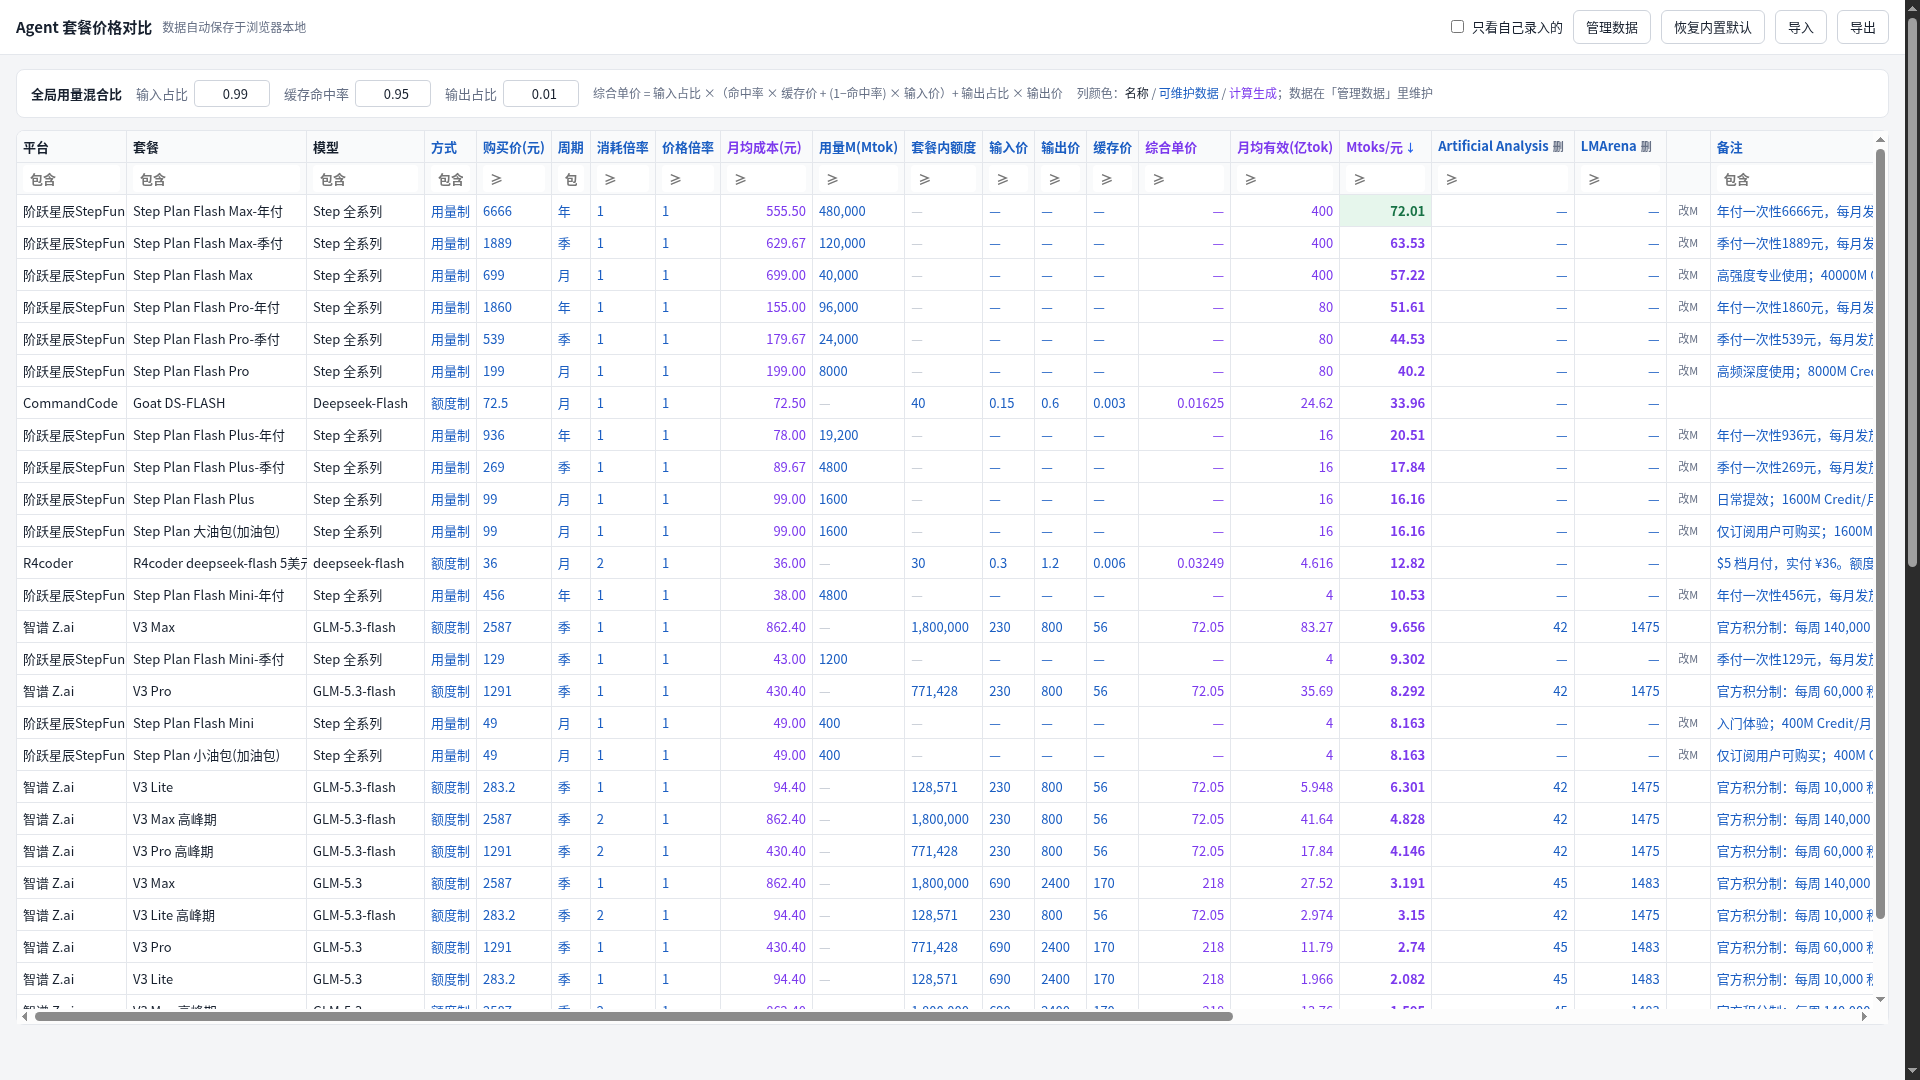
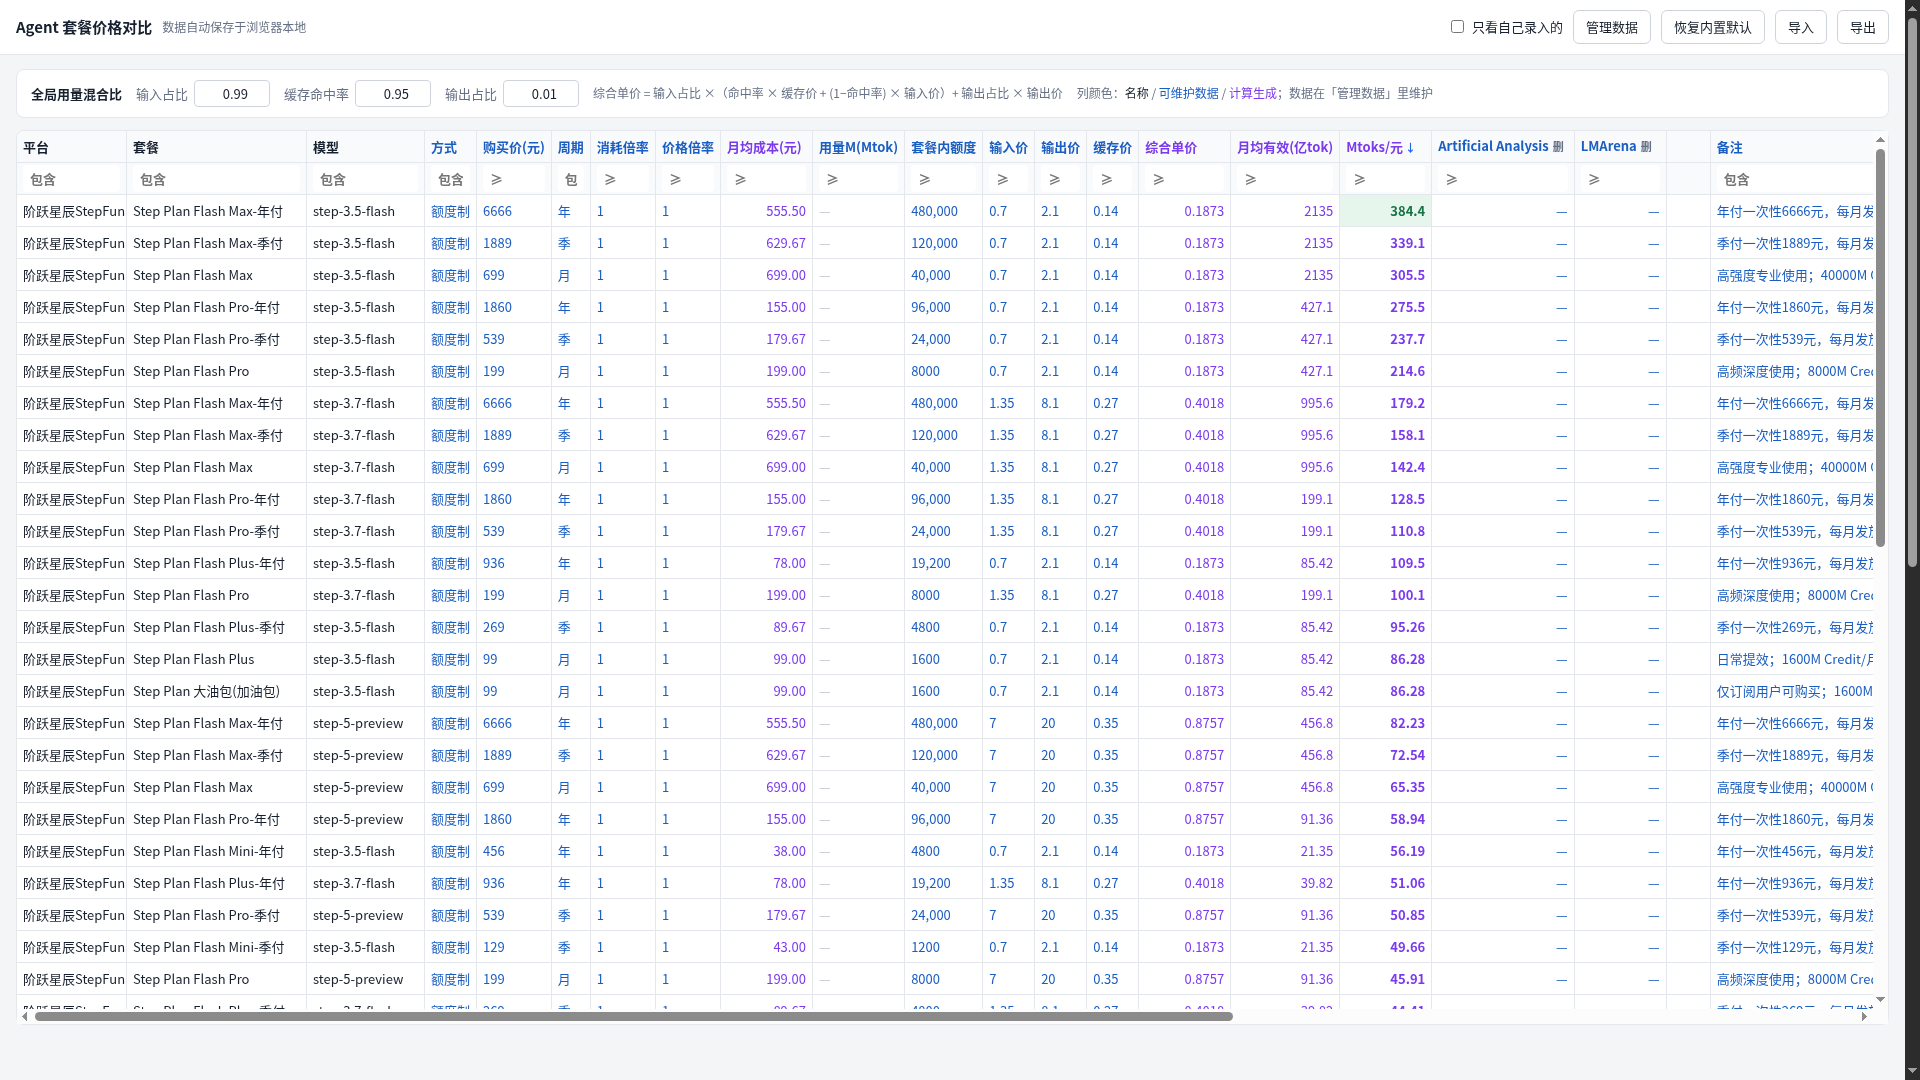
StepFun 改为逐模型建模（v8）
- 拿到三个文本模型 API 原价后，平台拆为 step-5-preview / step-3.7-flash / step-3.5-flash
- 套餐由用量制改额度制：额度 = 周期内 Credit 池（1M Credit = 1 元），季付 ×3、年付 ×12
- 综合单价由全局混合比公式现算，与官方手算口径逐项一致（Mini×step-5 = 456.8M token/月）
- 更新 README 内置数据说明与预览截图

diff --git a/data.js b/data.js
@@ -9,10 +9,12 @@
 // Goat 套餐定名 Goat DS-FLASH（月付 72.5 元、额度 40 元）。
 // v6：新增 R4coder 平台——deepseek-flash 5 美元套餐（¥36/月，额度 $30 按美元标价扣，消耗倍率 2，
 // 模型价 0.3/1.2/0.006 $/Mtok）。
-// v7：新增 阶跃星辰StepFun 平台——Credit 月池全模型共享、无逐模型 API 价，故按用量制建模：
-// 单模型「Step 全系列」承载共享池，usageM 填该套餐单周期总 Credit（Mtok）；加油包 30 天按 1 月折算。
+// v7：新增 阶跃星辰StepFun 平台（Credit 月池全模型共享）。
+// v8：StepFun 改为逐模型建模——拿到三个模型的 API 原价（输入命中/未命中/输出，元/Mtok）后，
+// 平台拆为 step-5-preview / step-3.7-flash / step-3.5-flash，套餐改额度制，额度 = 周期内 Credit 池
+// （1M Credit = 1元，季/年付为该周期累计发放量），综合单价按全局混合比公式现算，与官方口径一致。
 window.BUILTIN_DATA = {
-  version: 7,
+  version: 8,
   global: {
     inputRatio: 0.99,
     cacheHitRate: 0.95,
@@ -83,23 +85,25 @@ window.BUILTIN_DATA = {
       id: "p-stepfun",
       name: "阶跃星辰StepFun",
       models: [
-        { id: "m-step-all", name: "Step 全系列", priceIn: null, priceOut: null, priceCache: null, note: "Credit 月池为全模型共享；覆盖 step-5-preview、step-3.7-flash、step-3.5-flash-2603、step-router-v1、语音系列。" }
+        { id: "m-step-5", name: "step-5-preview", priceIn: 7.00, priceOut: 20.00, priceCache: 0.35, note: "" },
+        { id: "m-step-37f", name: "step-3.7-flash", priceIn: 1.35, priceOut: 8.10, priceCache: 0.27, note: "" },
+        { id: "m-step-35f", name: "step-3.5-flash", priceIn: 0.70, priceOut: 2.10, priceCache: 0.14, note: "" }
       ],
       plans: [
-        { id: "pl-step-mini", name: "Step Plan Flash Mini", price: 49, period: "month", mode: "usage", usageM: { "m-step-all": 400 }, consumeRate: 1, priceRate: 1, note: "入门体验；400M Credit/月，月末清零；Studio额外赠送40%创作额度；无优先速率；支持全部旗舰模型、MCP StepSearch" },
-        { id: "pl-step-plus", name: "Step Plan Flash Plus", price: 99, period: "month", mode: "usage", usageM: { "m-step-all": 1600 }, consumeRate: 1, priceRate: 1, note: "日常提效；1600M Credit/月，月末清零；Studio额外赠送40%创作额度；含优先API速率、优先技术支持；支持全部旗舰模型、MCP StepSearch" },
-        { id: "pl-step-pro", name: "Step Plan Flash Pro", price: 199, period: "month", mode: "usage", usageM: { "m-step-all": 8000 }, consumeRate: 1, priceRate: 1, note: "高频深度使用；8000M Credit/月，月末清零；Studio额外赠送40%创作额度；含优先API速率、优先技术支持；支持全部旗舰模型、MCP StepSearch" },
-        { id: "pl-step-max", name: "Step Plan Flash Max", price: 699, period: "month", mode: "usage", usageM: { "m-step-all": 40000 }, consumeRate: 1, priceRate: 1, note: "高强度专业使用；40000M Credit/月，月末清零；Studio额外赠送40%创作额度；含优先API速率、优先技术支持；支持全部旗舰模型、MCP StepSearch" },
-        { id: "pl-step-mini-q", name: "Step Plan Flash Mini-季付", price: 129, period: "quarter", mode: "usage", usageM: { "m-step-all": 1200 }, consumeRate: 1, priceRate: 1, note: "季付一次性129元，每月发放400M Credit；月末清零；Studio额外赠送40%创作额度；含优先速率与技术支持" },
-        { id: "pl-step-plus-q", name: "Step Plan Flash Plus-季付", price: 269, period: "quarter", mode: "usage", usageM: { "m-step-all": 4800 }, consumeRate: 1, priceRate: 1, note: "季付一次性269元，每月发放1600M Credit；月末清零；Studio额外赠送40%创作额度；含优先速率与技术支持" },
-        { id: "pl-step-pro-q", name: "Step Plan Flash Pro-季付", price: 539, period: "quarter", mode: "usage", usageM: { "m-step-all": 24000 }, consumeRate: 1, priceRate: 1, note: "季付一次性539元，每月发放8000M Credit；月末清零；Studio额外赠送40%创作额度；含优先速率与技术支持" },
-        { id: "pl-step-max-q", name: "Step Plan Flash Max-季付", price: 1889, period: "quarter", mode: "usage", usageM: { "m-step-all": 120000 }, consumeRate: 1, priceRate: 1, note: "季付一次性1889元，每月发放40000M Credit；月末清零；Studio额外赠送40%创作额度；含优先速率与技术支持" },
-        { id: "pl-step-mini-y", name: "Step Plan Flash Mini-年付", price: 456, period: "year", mode: "usage", usageM: { "m-step-all": 4800 }, consumeRate: 1, priceRate: 1, note: "年付一次性456元，每月发放400M Credit；月末清零；Studio额外赠送40%创作额度；含优先速率与技术支持" },
-        { id: "pl-step-plus-y", name: "Step Plan Flash Plus-年付", price: 936, period: "year", mode: "usage", usageM: { "m-step-all": 19200 }, consumeRate: 1, priceRate: 1, note: "年付一次性936元，每月发放1600M Credit；月末清零；Studio额外赠送40%创作额度；含优先速率与技术支持" },
-        { id: "pl-step-pro-y", name: "Step Plan Flash Pro-年付", price: 1860, period: "year", mode: "usage", usageM: { "m-step-all": 96000 }, consumeRate: 1, priceRate: 1, note: "年付一次性1860元，每月发放8000M Credit；月末清零；Studio额外赠送40%创作额度；含优先速率与技术支持" },
-        { id: "pl-step-max-y", name: "Step Plan Flash Max-年付", price: 6666, period: "year", mode: "usage", usageM: { "m-step-all": 480000 }, consumeRate: 1, priceRate: 1, note: "年付一次性6666元，每月发放40000M Credit；月末清零；Studio额外赠送40%创作额度；含优先速率与技术支持" },
-        { id: "pl-step-oil-s", name: "Step Plan 小油包(加油包)", price: 49, period: "month", mode: "usage", usageM: { "m-step-all": 400 }, consumeRate: 1, priceRate: 1, note: "仅订阅用户可购买；400M Credit；独立30天有效期，不跟随套餐月池周期（周期按30天≈1月折算）" },
-        { id: "pl-step-oil-l", name: "Step Plan 大油包(加油包)", price: 99, period: "month", mode: "usage", usageM: { "m-step-all": 1600 }, consumeRate: 1, priceRate: 1, note: "仅订阅用户可购买；1600M Credit；独立30天有效期，不跟随套餐月池周期（周期按30天≈1月折算）" }
+        { id: "pl-step-mini", name: "Step Plan Flash Mini", price: 49, period: "month", mode: "quota", quota: 400, consumeRate: 1, priceRate: 1, note: "入门体验；400M Credit/月，月末清零；Studio额外赠送40%创作额度；无优先速率；支持全部旗舰模型、MCP StepSearch" },
+        { id: "pl-step-plus", name: "Step Plan Flash Plus", price: 99, period: "month", mode: "quota", quota: 1600, consumeRate: 1, priceRate: 1, note: "日常提效；1600M Credit/月，月末清零；Studio额外赠送40%创作额度；含优先API速率、优先技术支持；支持全部旗舰模型、MCP StepSearch" },
+        { id: "pl-step-pro", name: "Step Plan Flash Pro", price: 199, period: "month", mode: "quota", quota: 8000, consumeRate: 1, priceRate: 1, note: "高频深度使用；8000M Credit/月，月末清零；Studio额外赠送40%创作额度；含优先API速率、优先技术支持；支持全部旗舰模型、MCP StepSearch" },
+        { id: "pl-step-max", name: "Step Plan Flash Max", price: 699, period: "month", mode: "quota", quota: 40000, consumeRate: 1, priceRate: 1, note: "高强度专业使用；40000M Credit/月，月末清零；Studio额外赠送40%创作额度；含优先API速率、优先技术支持；支持全部旗舰模型、MCP StepSearch" },
+        { id: "pl-step-mini-q", name: "Step Plan Flash Mini-季付", price: 129, period: "quarter", mode: "quota", quota: 1200, consumeRate: 1, priceRate: 1, note: "季付一次性129元，每月发放400M Credit；月末清零；Studio额外赠送40%创作额度；含优先速率与技术支持" },
+        { id: "pl-step-plus-q", name: "Step Plan Flash Plus-季付", price: 269, period: "quarter", mode: "quota", quota: 4800, consumeRate: 1, priceRate: 1, note: "季付一次性269元，每月发放1600M Credit；月末清零；Studio额外赠送40%创作额度；含优先速率与技术支持" },
+        { id: "pl-step-pro-q", name: "Step Plan Flash Pro-季付", price: 539, period: "quarter", mode: "quota", quota: 24000, consumeRate: 1, priceRate: 1, note: "季付一次性539元，每月发放8000M Credit；月末清零；Studio额外赠送40%创作额度；含优先速率与技术支持" },
+        { id: "pl-step-max-q", name: "Step Plan Flash Max-季付", price: 1889, period: "quarter", mode: "quota", quota: 120000, consumeRate: 1, priceRate: 1, note: "季付一次性1889元，每月发放40000M Credit；月末清零；Studio额外赠送40%创作额度；含优先速率与技术支持" },
+        { id: "pl-step-mini-y", name: "Step Plan Flash Mini-年付", price: 456, period: "year", mode: "quota", quota: 4800, consumeRate: 1, priceRate: 1, note: "年付一次性456元，每月发放400M Credit；月末清零；Studio额外赠送40%创作额度；含优先速率与技术支持" },
+        { id: "pl-step-plus-y", name: "Step Plan Flash Plus-年付", price: 936, period: "year", mode: "quota", quota: 19200, consumeRate: 1, priceRate: 1, note: "年付一次性936元，每月发放1600M Credit；月末清零；Studio额外赠送40%创作额度；含优先速率与技术支持" },
+        { id: "pl-step-pro-y", name: "Step Plan Flash Pro-年付", price: 1860, period: "year", mode: "quota", quota: 96000, consumeRate: 1, priceRate: 1, note: "年付一次性1860元，每月发放8000M Credit；月末清零；Studio额外赠送40%创作额度；含优先速率与技术支持" },
+        { id: "pl-step-max-y", name: "Step Plan Flash Max-年付", price: 6666, period: "year", mode: "quota", quota: 480000, consumeRate: 1, priceRate: 1, note: "年付一次性6666元，每月发放40000M Credit；月末清零；Studio额外赠送40%创作额度；含优先速率与技术支持" },
+        { id: "pl-step-oil-s", name: "Step Plan 小油包(加油包)", price: 49, period: "month", mode: "quota", quota: 400, consumeRate: 1, priceRate: 1, note: "仅订阅用户可购买；400M Credit；独立30天有效期，不跟随套餐月池周期（周期按30天≈1月折算）" },
+        { id: "pl-step-oil-l", name: "Step Plan 大油包(加油包)", price: 99, period: "month", mode: "quota", quota: 1600, consumeRate: 1, priceRate: 1, note: "仅订阅用户可购买；1600M Credit；独立30天有效期，不跟随套餐月池周期（周期按30天≈1月折算）" }
       ]
     }
   ],

diff --git a/README.md b/README.md
@@ -28,12 +28,12 @@
 
 ## 内置数据说明
 
-内置数据（data.js，v7）覆盖四个平台，数值为 2026-09 采集口径：
+内置数据（data.js，v8）覆盖四个平台，数值为 2026-09 采集口径：
 
 - **智谱 Z.ai**：模型为积分抵扣系数口径（积分/Mtok，GLM-5.3 输入 690 / 输出 2400 / 缓存 170；flash 230 / 800 / 56）。三档套餐各两套——高峰期（消耗倍率 2）与标准（消耗倍率 1），季付价 Lite ¥283.2 / Pro ¥1291.2 / Max ¥2587.2，额度分别为 128,571 / 771,428 / 1,800,000。高峰为周一至周五 14:00-18:00，非高峰（含周末全天）消耗减半的口径写在备注里。
 - **CommandCode**：Goat DS-FLASH，月付 ¥72.5，额度 40（元口径），模型 Deepseek-Flash 0.15 / 0.6 / 0.003 元/Mtok。
 - **R4coder**：deepseek-flash 5 美元套餐，月付 ¥36，额度 $30（美元标价口径），消耗倍率 2，模型 0.3 / 1.2 / 0.006 $/Mtok。
-- **阶跃星辰StepFun**：Credit 月池全模型共享、无逐模型 API 价，按用量制建模——单模型「Step 全系列」承载共享池，usageM 为该套餐单周期总 Credit（Mtok）。月付 ¥49/99/199/699 对应 400/1600/8000/40000M，另有季付/年付与加油包（30 天按 1 月折算）。
+- **阶跃星辰StepFun**：逐模型建模，三个文本模型原价（输入未命中 / 命中 / 输出，元/Mtok）：step-5-preview 7.00 / 0.35 / 20.00，step-3.7-flash 1.35 / 0.27 / 8.10，step-3.5-flash 0.70 / 0.14 / 2.10。套餐为额度制，额度 = 周期内 Credit 池（1M Credit = 1 元）：月付 ¥49/99/199/699 对应 400/1600/8000/40000，季付按 3 个月、年付按 12 个月累计，另有加油包（30 天按 1 月折算）。Credit 池在三个模型间共享，同套餐每个模型一行 = 全部额度用于该模型时的折算；图像/语音与未给价的 step-router-v1 未纳入。
 - 评分：Artificial Analysis 智能指数（GLM-5.3 45 / flash 42）、LMArena Elo（1483/1475），仅作展示与筛选。
 
 ## 本地使用
